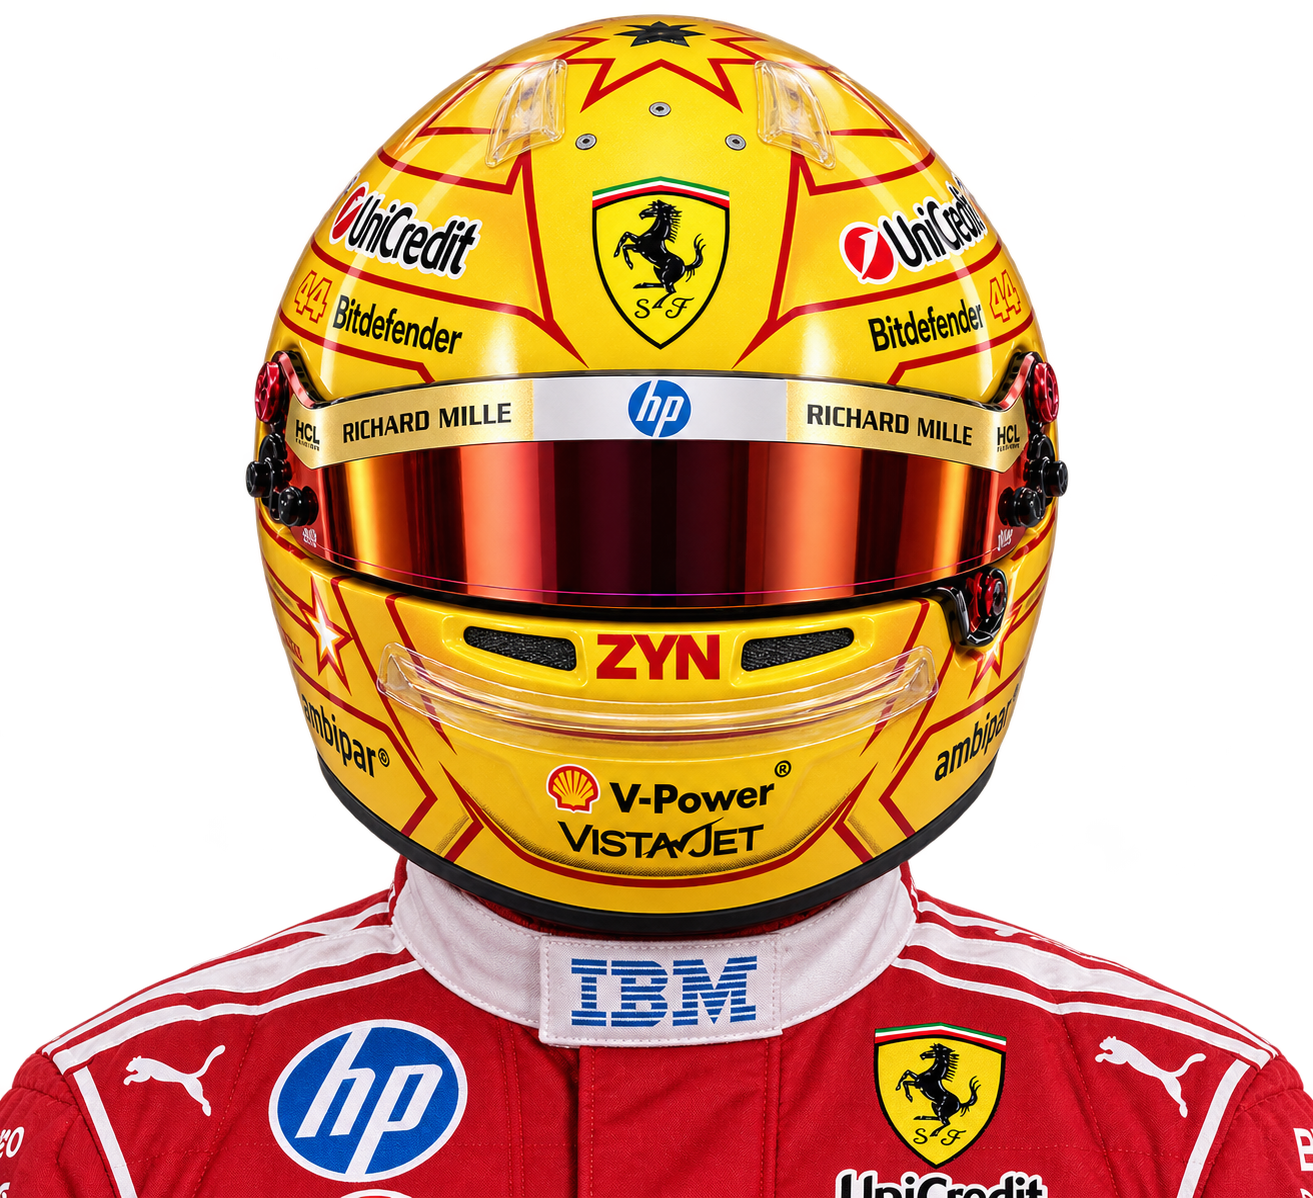
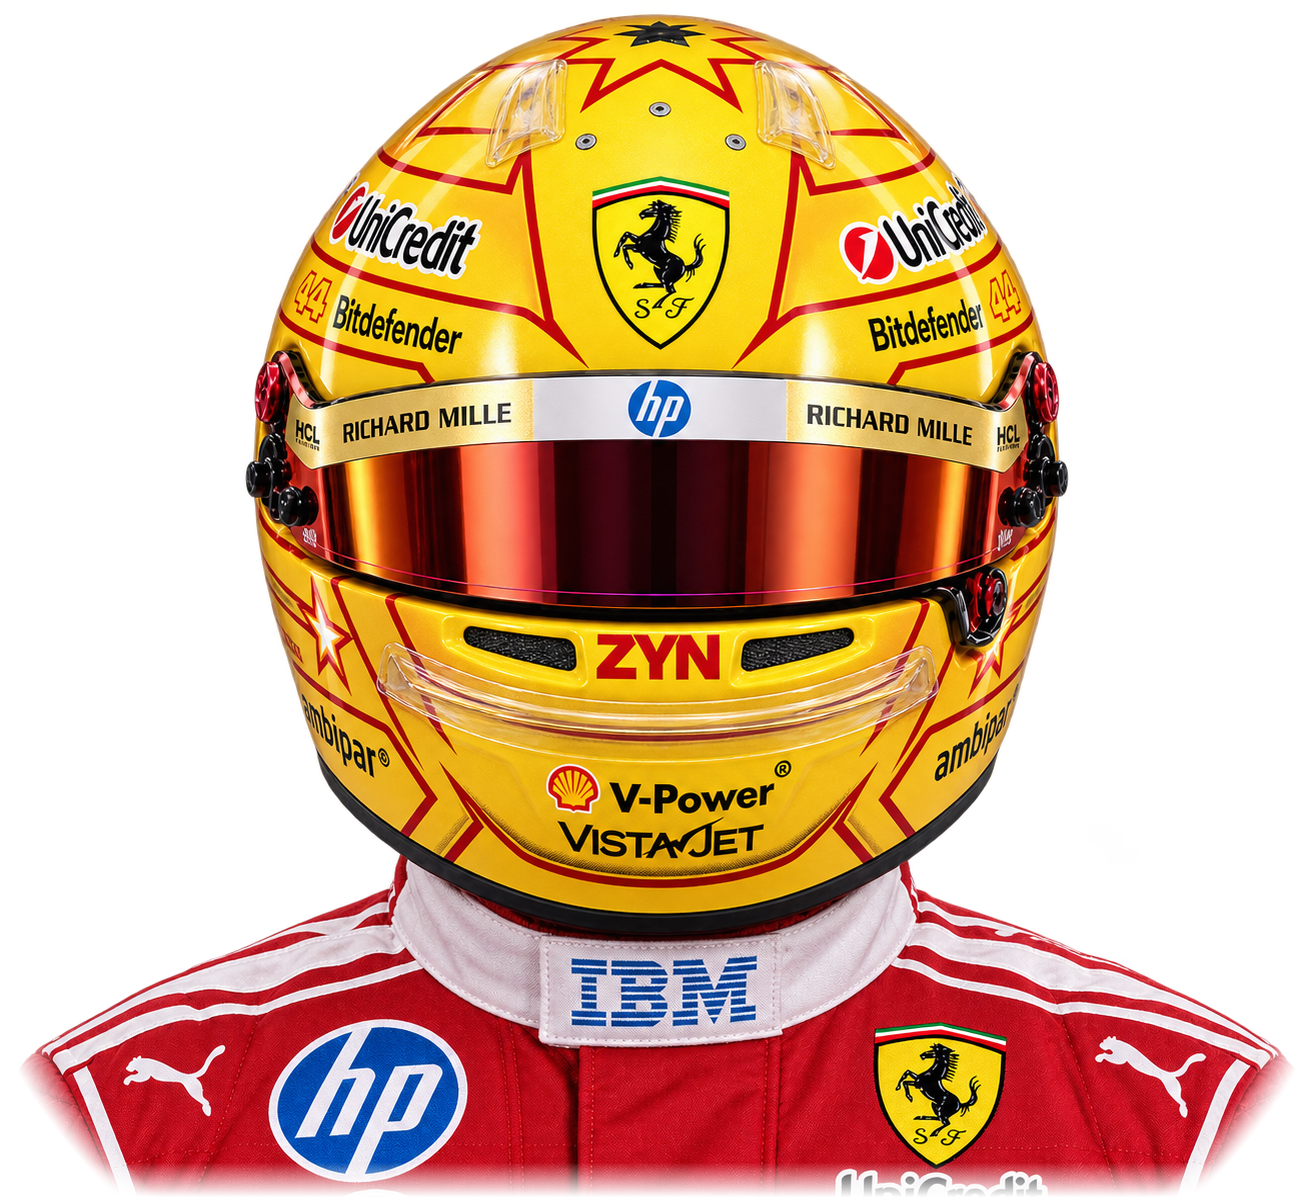
fix: eliminate cut-off shoulders with natural shoulder contouring and soft feathering

Changed region(s): [[0.0, 0.8648, 1.0, 1.0]]

diff --git a/src/style.css b/src/style.css
@@ -2355,12 +2355,12 @@ body.menu-locked, body.cart-open {
 }
 
 .footer-bg-img {
-  width: 32rem;
-  max-width: 36vw;
+  width: 33rem;
+  max-width: 38vw;
   height: auto;
   object-fit: contain;
   position: relative;
-  bottom: 0;
+  bottom: -0.75rem;
   display: block;
 }
 
